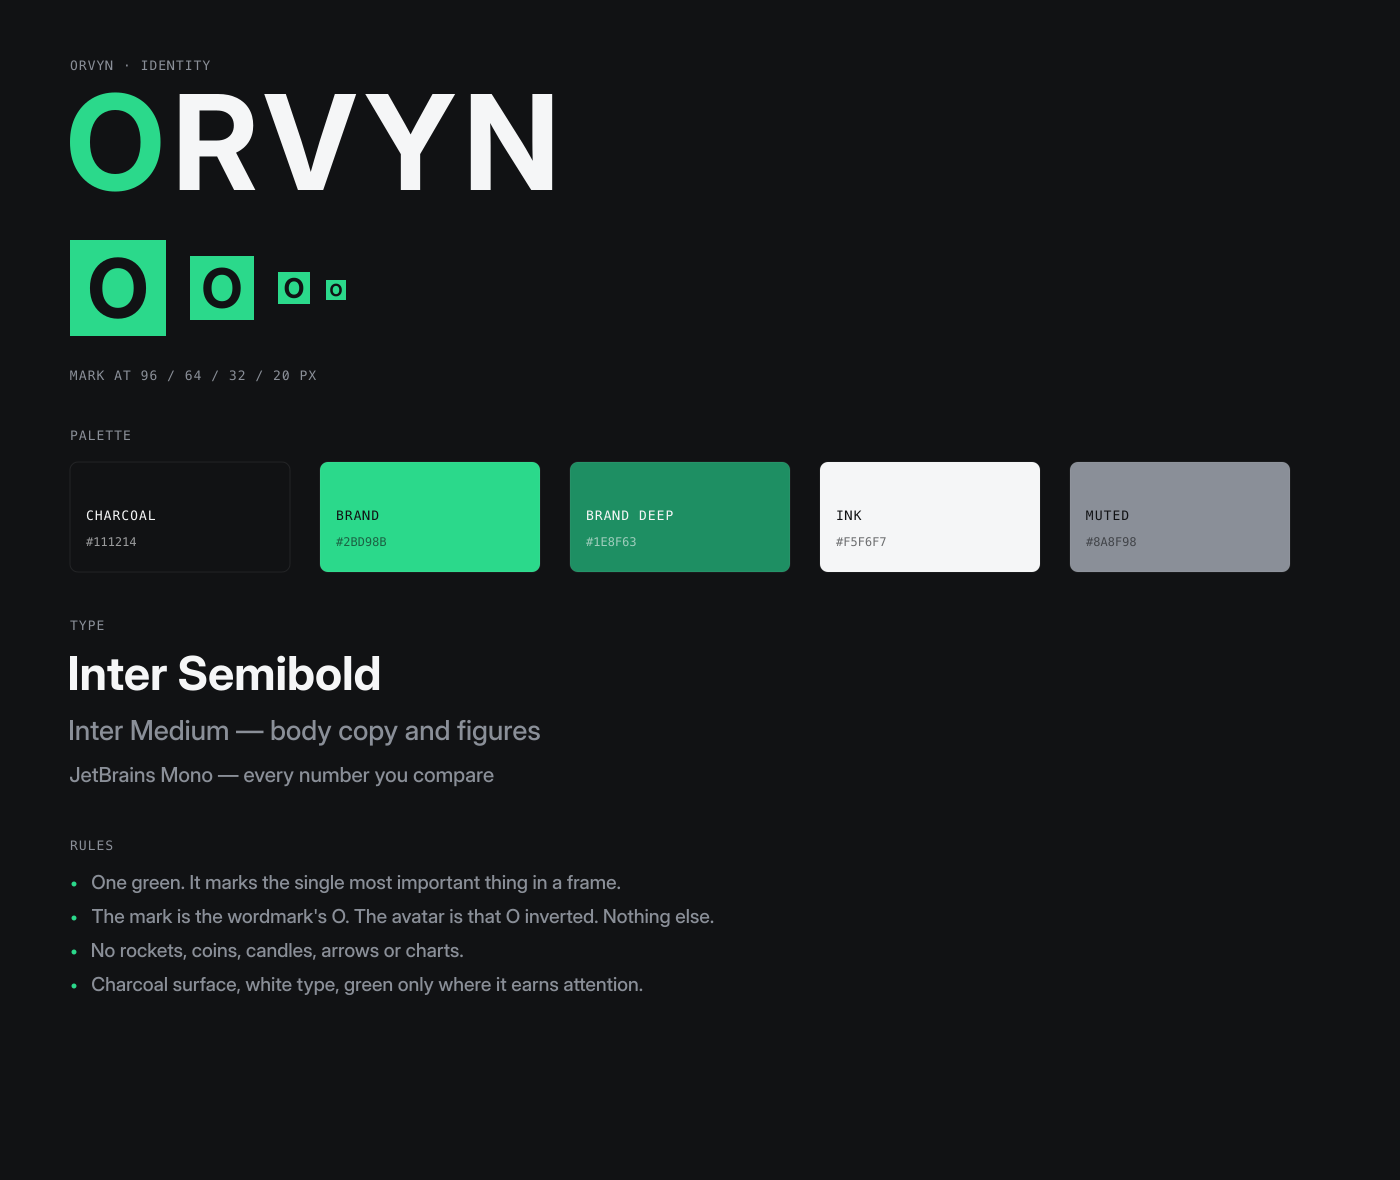
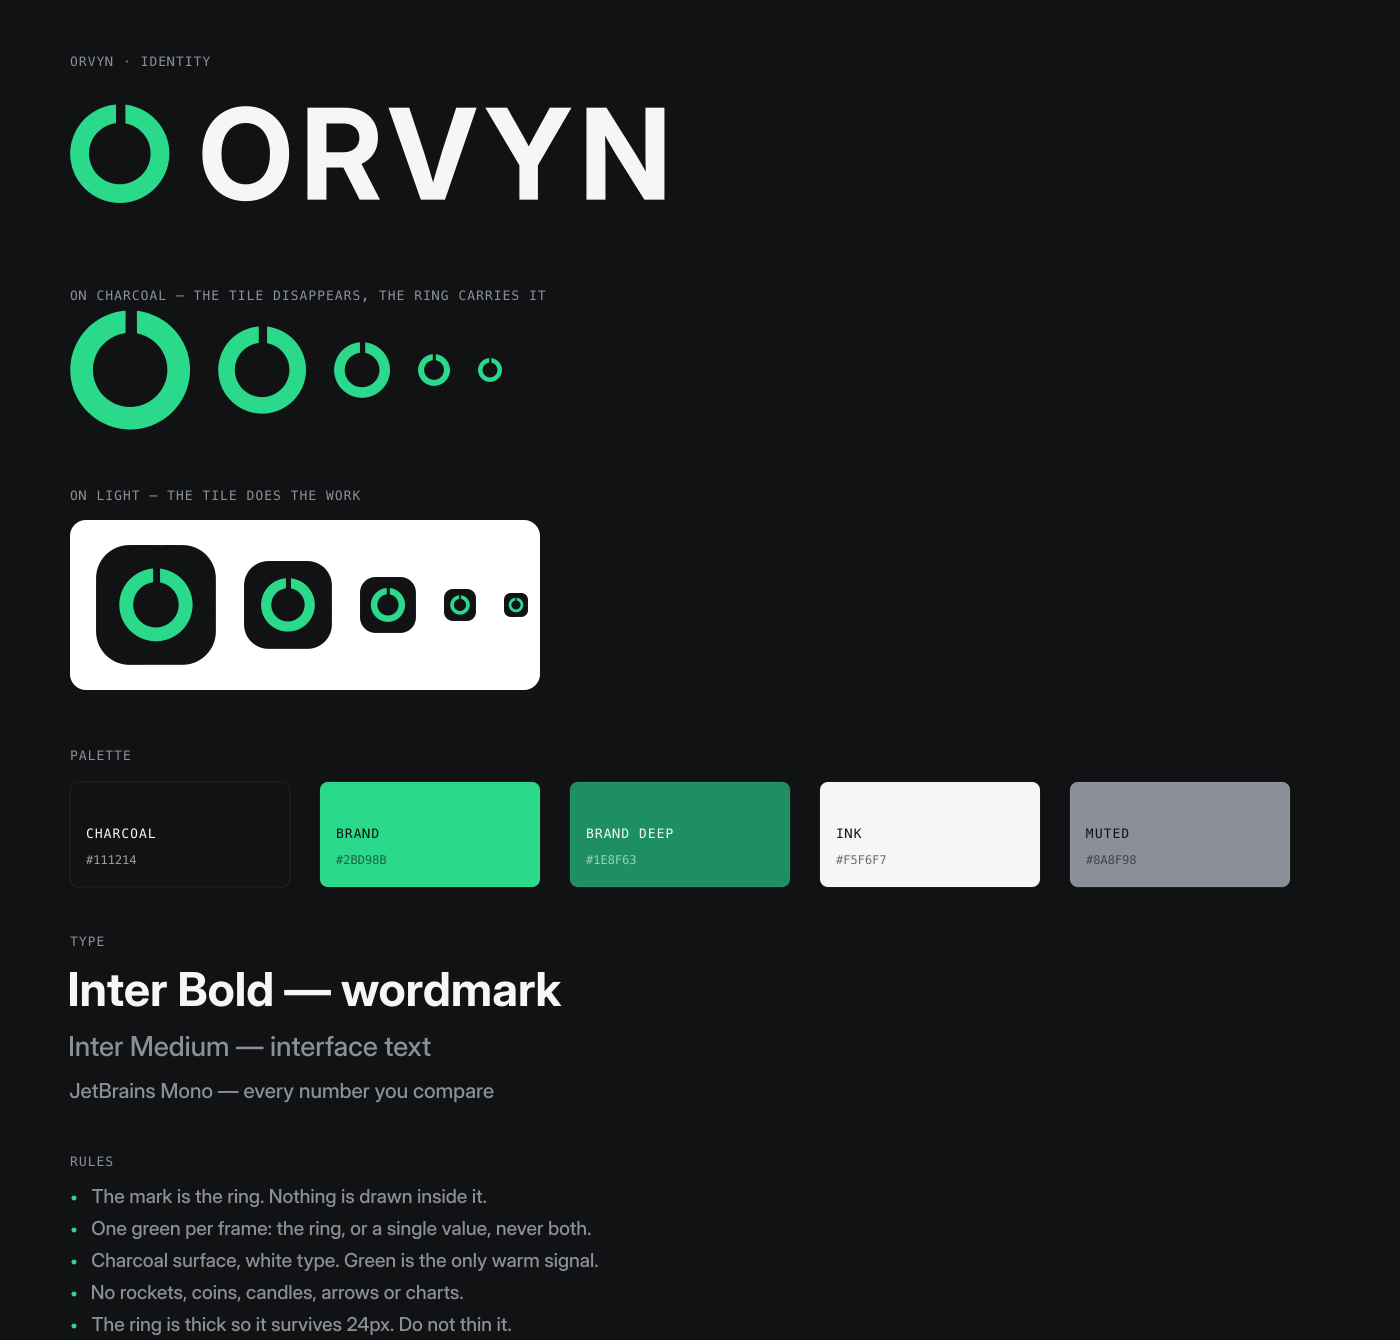
feat: rebuild the brand assets around the supplied mark
The mark is used exactly as provided: a charcoal tile with an open green
ring. Only the white canvas behind it was removed, and the tile scaled so
its proportions are unchanged (750 of 1024, ring at 61% of the tile).

On charcoal the tile is invisible, so the banner, wordmark and nav use the
ring alone; the tile is kept for the favicon, app icon and profile picture.
Favicons enlarge the ring to 68% because the counter fills in below 20px.

diff --git a/apps/web/src/components/brand/mark.tsx b/apps/web/src/components/brand/mark.tsx
@@ -1,22 +1,14 @@
-/**
- * The ORVYN mark: the wordmark's O, charcoal on the brand green.
- *
- * Same artwork as the favicon, the app icon and the profile picture — all four
- * are exports of one outline, so they cannot drift apart. The path is the O from
- * Inter at weight 700, converted to an outline rather than redrawn, which is why
- * it holds its shape at 20px.
- */
-const O_PATH = [
-  'M765 24Q565 24 406-69.5Q247-163 155-335.5Q63-508 63-744Q63-982 155-1154.5',
-  'Q247-1327 406-1420.5Q565-1514 765-1514Q966-1514 1124.5-1420.5',
-  'Q1283-1327 1375.5-1154.5Q1468-982 1468-744Q1468-508 1375.5-335.5',
-  'Q1283-163 1124.5-69.5Q966 24 765 24Z',
-  'M765-248Q880-248 969-306Q1058-364 1108-475Q1158-586 1158-744',
-  'Q1158-903 1108-1014.5Q1058-1126 969-1184Q880-1242 765-1242',
-  'Q651-1242 562-1184Q473-1126 423-1014.5Q373-903 373-744',
-  'Q373-586 423-475Q473-364 562-306Q651-248 765-248Z',
-].join('');
+import { cn } from '@/lib/utils';
 
+/**
+ * The ORVYN mark: the ring from the logo, on its own.
+ *
+ * The full logo is a charcoal tile with a green ring inside it. On the app's
+ * charcoal surfaces the tile is invisible, so the nav uses the ring alone and
+ * the tile is reserved for contexts that have a light or unknown backdrop —
+ * the favicon, the app icon, the profile picture. Both come from the same
+ * source artwork, so they cannot drift apart.
+ */
 export function OrvynMark({
   size = 22,
   className,
@@ -25,18 +17,14 @@ export function OrvynMark({
   className?: string;
 }) {
   return (
-    <svg
-      viewBox="0 0 1000 1000"
+    <img
+      src="/brand/logo-ring.svg"
       width={size}
       height={size}
+      alt=""
       aria-hidden
-      focusable="false"
-      shapeRendering="geometricPrecision"
-      className={className}>
-      <rect width="1000" height="1000" fill="#2BD98B" />
-      <g transform="translate(181.456 810.013) scale(0.416125)">
-        <path d={O_PATH} fill="#111214" />
-      </g>
-    </svg>
+      draggable={false}
+      className={cn('shrink-0 select-none', className)}
+    />
   );
 }

diff --git a/BRAND.md b/BRAND.md
@@ -1,21 +1,21 @@
 # Brand
 
-Everything here is one system: the same green, the same two typefaces, and one
-mark — the **O** from the wordmark. The favicon, the app icon and the profile
-picture are all exports of that single outline, so they cannot drift apart.
+One mark, one green, two typefaces. The mark is a bold open ring in brand green
+sitting in a charcoal tile. On the app's charcoal surfaces the tile disappears
+and the ring carries the identity; on light backgrounds the tile does the work.
 
 ## Palette
 
 | Token | Hex | Use |
 |---|---|---|
-| Charcoal | `#111214` | Page and banner background. Everything sits on this. |
-| Brand | `#2BD98B` | The one accent. Marks the single most important thing in a frame. |
-| Brand deep | `#1E8F63` | Terminus for brand gradients; not for text on charcoal. |
+| Charcoal | `#111214` | Page, banner and tile background. |
+| Brand | `#2BD98B` | The ring, and one value per frame. Nothing else. |
+| Brand deep | `#1E8F63` | Gradient terminus only; not for text on charcoal. |
 | Ink | `#F5F6F7` | Body and display type. |
 | Muted | `#8A8F98` | Labels, captions, anything deliberately secondary. |
 
-Green is a spotlight, not a decoration. One green element per view — a button, a
-value, a dot. Two green elements competing is a bug.
+Green is a spotlight, not decoration. One green element per view — the ring, or
+a value, never both.
 
 ## Type
 
@@ -26,8 +26,7 @@ value, a dot. Two green elements competing is a bug.
 
 ## Assets
 
-All in `apps/web/public/brand`, plus the app icons that Next.js picks up
-automatically.
+In `apps/web/public/brand`, plus the two icons Next.js picks up automatically.
 
 | File | Size | Use |
 |---|---|---|
@@ -35,29 +34,37 @@ automatically.
 | `avatar-1000.png` | 1000×1000 | Higher-resolution profile picture |
 | `banner-1500x500.png` | 1500×500 | X header |
 | `og.png` | 1200×630 | Link previews |
-| `logo-wordmark.svg` | vector | Green O, white letters — for dark surfaces |
-| `logo-wordmark-white.svg` | vector | All white — one-colour use |
-| `logo-wordmark-mono.svg` | vector | All charcoal — for brand or light backgrounds |
-| `brand-sheet.png` | 1400×1180 | One-page reference |
+| `logo-mark.svg` | vector | The full mark: charcoal tile, green ring |
+| `logo-ring.svg` | vector | Ring alone, for charcoal surfaces |
+| `logo-wordmark.svg` | vector | Ring plus white name — dark surfaces |
+| `logo-wordmark-ink.svg` | vector | Ring plus charcoal name — light surfaces |
+| `logo-wordmark.png` | 1600px wide | Raster, for tools that will not take SVG |
+| `brand-sheet.png` | 1400×1340 | One-page reference |
 | `src/app/icon.svg` | vector | Favicon |
 | `src/app/apple-icon.png` | 180×180 | iOS home screen |
 
 ## Rules
 
-1. **The mark is the wordmark's O.** The avatar is that O inverted: charcoal on
-   brand green. No second symbol.
-2. **The avatar must read at 20px.** That is why it is a solid tile rather than a
-   thin outline, and why the O is large in the frame.
-3. **No rockets, coins, candlesticks, arrows or bar charts.** They are the
+1. **The mark is the ring.** Nothing is drawn inside it, and nothing is added
+   around it. Do not trace it, redraw it or change its stroke weight.
+2. **On charcoal, use the ring alone.** The tile is the same colour as the
+   surface, so including it only adds a faint square.
+3. **On light backgrounds, use the tile.** That is what the tile is for.
+4. **The ring is thick on purpose.** It has to survive 24px. Favicons use a
+   slightly larger ring (68% rather than 61%) because below 20px the counter
+   fills in and the mark turns into a green disc.
+5. **No rockets, coins, candlesticks, arrows or bar charts.** They are the
    fastest way to look like every other finance account.
-4. **Keep the banner's content in the middle band.** The X avatar overlaps the
+6. **Keep the banner's content in the middle band.** The X avatar overlaps the
    lower-left corner; nothing important goes there.
-5. **Do not stretch, re-colour or add effects to the wordmark.** If it needs to
-   sit on green, use the mono version.
 
 ## How these were made
 
+The mark is used exactly as supplied. Only the white canvas behind it was
+removed, and the tile scaled so its proportions (750 of 1024, ring at 61% of the
+tile) match the original.
+
 The wordmark is Inter 700 at optical size 32, shaped with HarfBuzz so the letter
 spacing is the type designer's rather than an approximation, then converted to
-outlines. No file in this folder depends on a font being installed, and the PNGs
-are rendered from the same SVGs, so the raster and vector match exactly.
+outlines. No file in this folder depends on a font being installed, and every
+PNG is rendered from the matching SVG, so raster and vector cannot drift.
